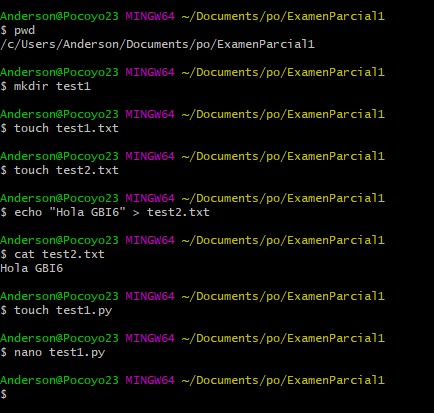
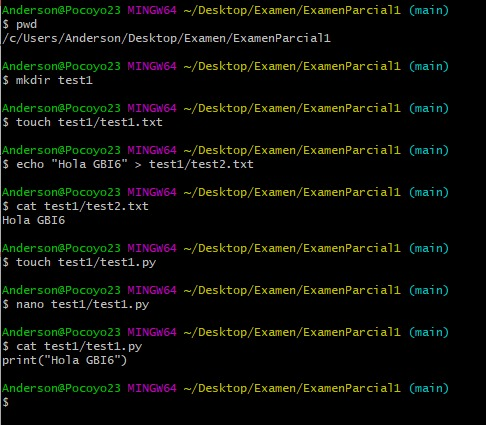
Corregi el ejercicio2 y puse mas explicacion

Changed region(s): [[0.0, 0.1453, 0.9286, 0.8717], [0.0, 0.0, 0.9286, 0.1162], [0.0, 0.9007, 0.9286, 0.9879]]

diff --git a/test1/test1.py b/test1/test1.py
@@ -1,0 +1,1 @@
+print("Hola GBI6")
